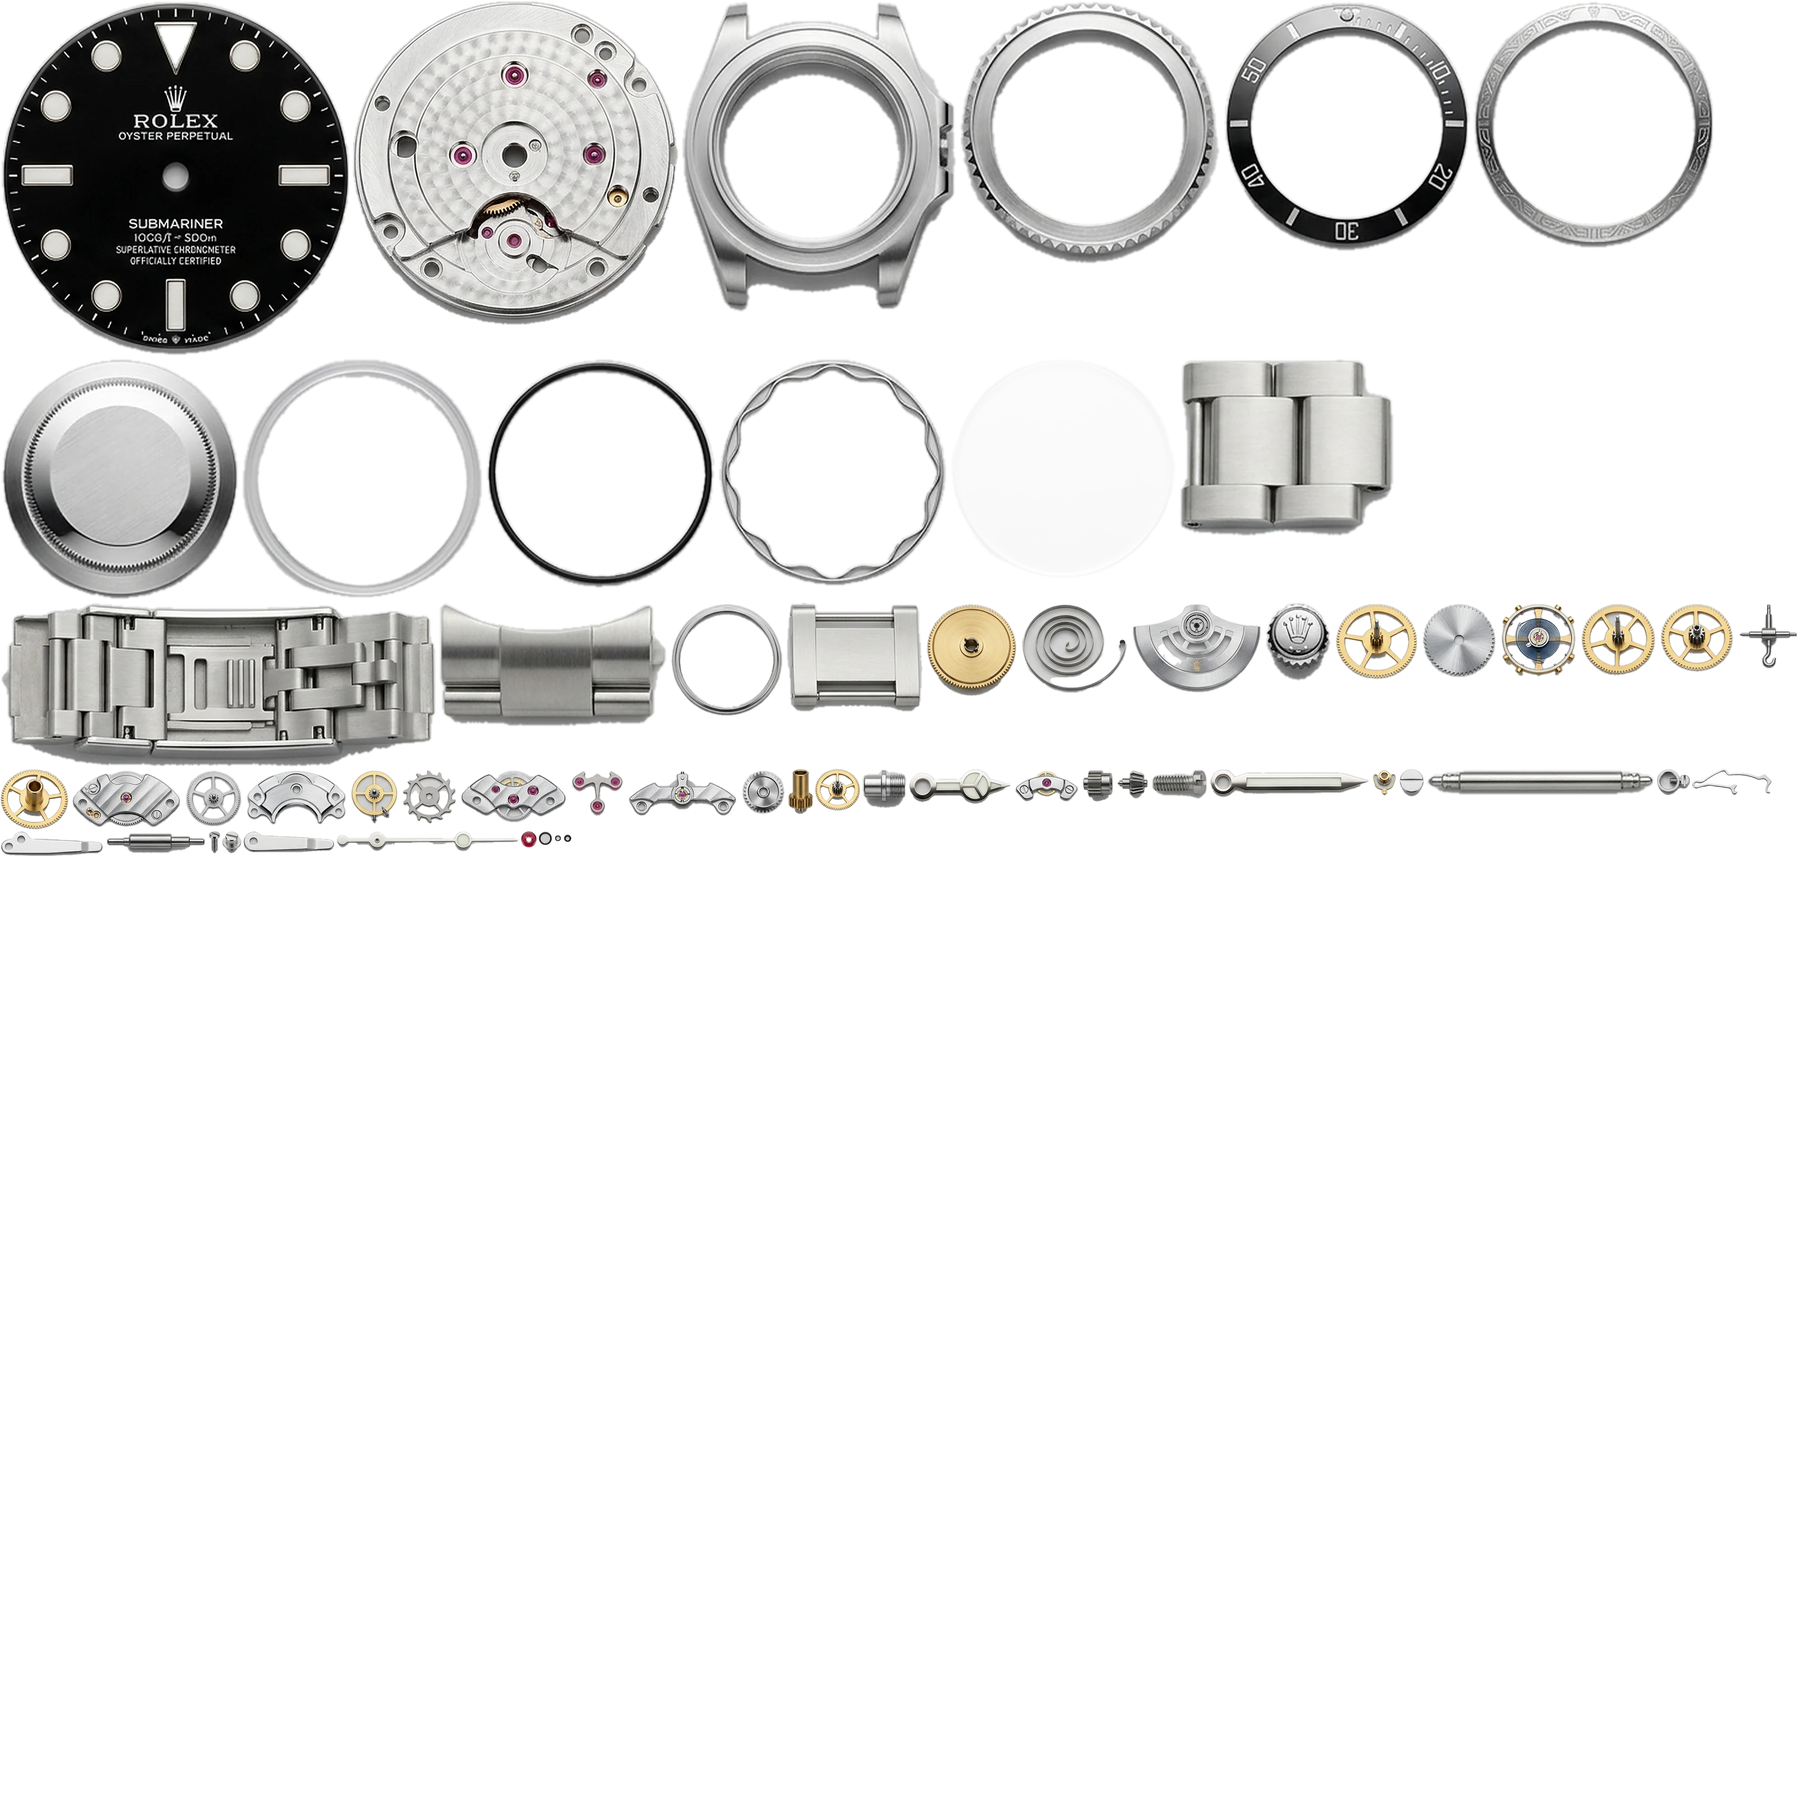
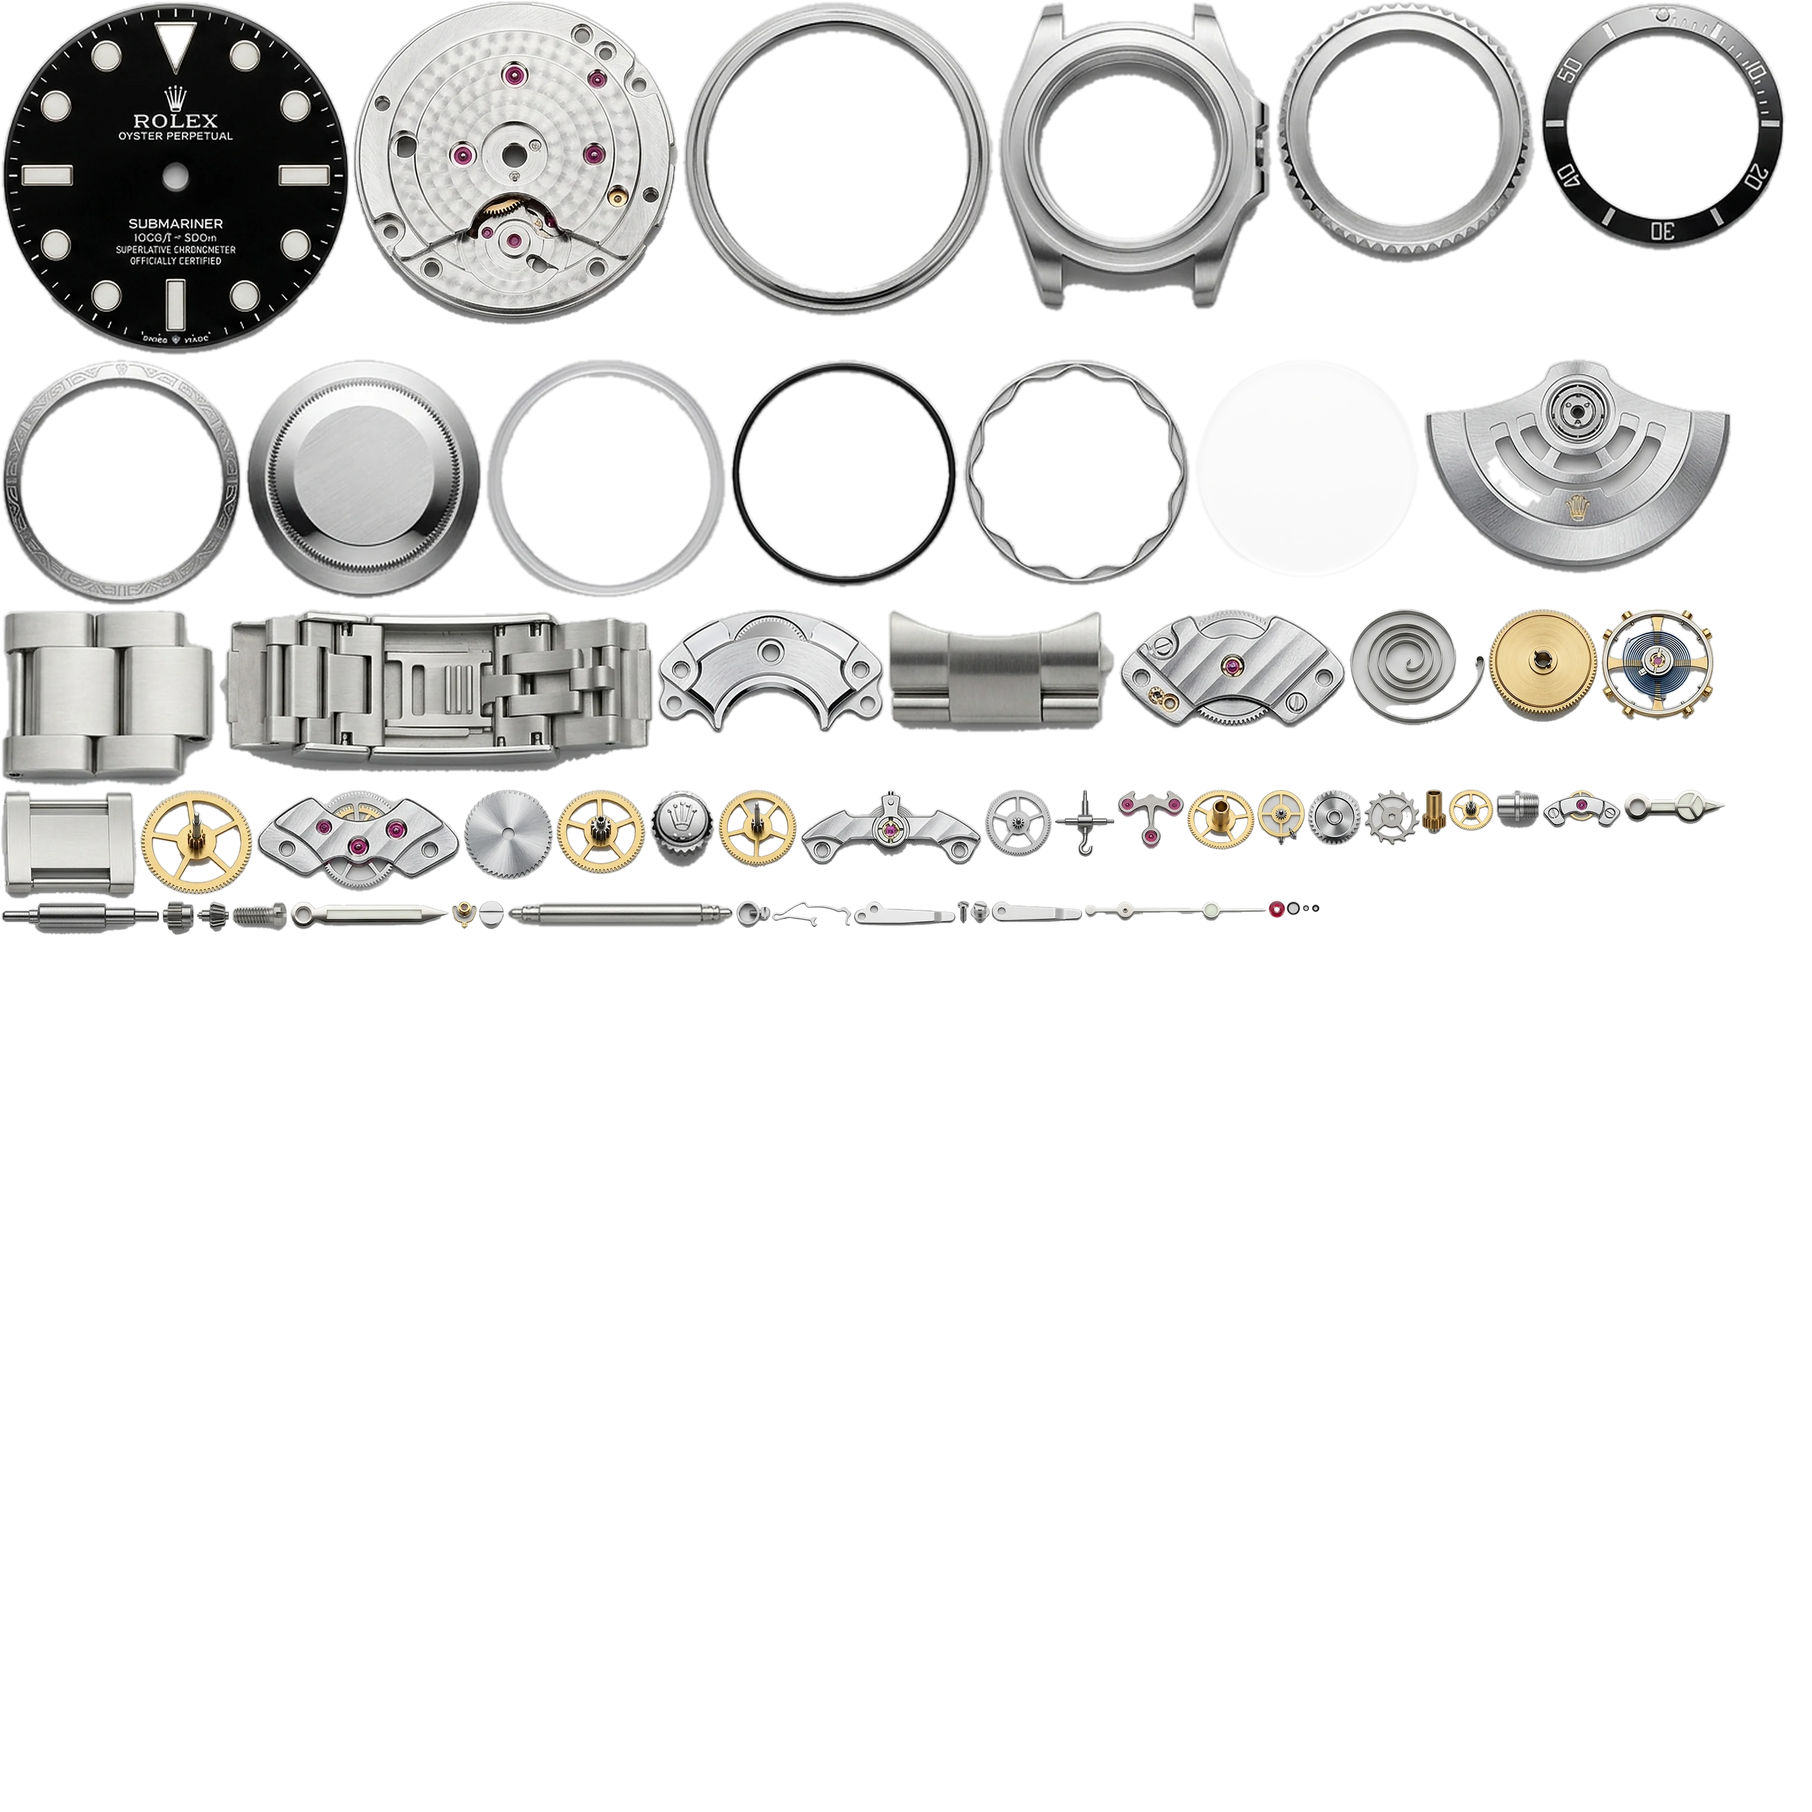
Проверка нарезки при сборке, лист деталей и правила для агентов
- build ищет рассыпавшиеся детали и печатает «НАРЕЗКА ИСПОРЧЕНА»
- teardown.py sheet <slug>: все вырезанные детали модели с подписями
- тест: docs/PROGRESS.md и Progress.md совпадают
- AGENTS.md: обязательный порядок работы с разборкой для любых агентов

Changed region(s): [[0.0, 0.0, 1.0, 0.5312], [0.6562, 0.5, 0.6875, 0.5312]]

diff --git a/scripts/teardown.py b/scripts/teardown.py
@@ -694,6 +694,31 @@ def _layout(cuts: list[Cut], case_mm: float) -> list[dict]:
     return sorted(placed, key=lambda p: p["i"])
 
 
+def _broken(cuts: list[Cut]) -> list[str]:
+    """Детали, рассыпавшиеся на куски: признак сломанной нарезки (фон съел середину стальной детали).
+
+    Считаются заметные куски непрозрачной части спрайта; целая деталь это один крупный кусок
+    (плюс, может быть, пара мелких). Много кусков без явно главного: нарезка испорчена.
+    """
+    import numpy as np
+    from scipy import ndimage as ndi
+
+    out, seen = [], set()
+    for c in cuts:
+        if id(c.sprite) in seen:
+            continue
+        seen.add(id(c.sprite))
+        a = np.asarray(c.sprite)[..., 3] > 128
+        lab, n = ndi.label(a)
+        if n < 2:
+            continue
+        sizes = ndi.sum(a, lab, range(1, n + 1))
+        big = sizes[sizes > a.size * 0.002]
+        if len(big) > 4 and big.max() / big.sum() < 0.8:
+            out.append(f"{c.job.id}: «{c.item.name}» распалась на {len(big)} кусков")
+    return out
+
+
 TRAY_ORDER = ["exterior", "dial", "movement_dial", "movement_calendar", "movement_chrono", "movement_train",
               "movement_top", "movement_screws", "bracelet", "strap"]
 
@@ -848,13 +873,54 @@ def cmd_build(slug: str) -> None:
             pp[name] = [tx, tz]
     manifest = {
         "slug": slug, "case_mm": case_mm, "version": version, "pages": [f"atlas-{n}.webp" for n in range(len(pages))],
-        "assembled": extra, "generated": "Gemini 3 Pro Image по официальным фото модели", "parts": parts,
+        "assembled": extra, "generated": "Gemini (Nano Banana) по официальным фото модели", "parts": parts,
     }
     (out / "manifest.json").write_text(json.dumps(manifest, ensure_ascii=False, separators=(",", ":")), encoding="utf-8")
     size = sum(f.stat().st_size for f in out.glob("*"))
     print(f"{slug}: {len(parts)} деталей, {len(pages)} стр. атласа, {size / 1e6:.1f} МБ")
     for wr in warnings:
         print("  внимание:", wr)
+    broken = _broken(cuts)
+    if broken:
+        print(f"\n!!! НАРЕЗКА ИСПОРЧЕНА у {len(broken)} деталей. Не коммитьте атлас, проверьте `review {slug}` и `sheet {slug}`:")
+        for b in broken:
+            print("   ", b)
+    print(f"Проверьте глазами: uv run python scripts/teardown.py sheet {slug}")
+
+
+def cmd_sheet(slug: str) -> None:
+    """Все вырезанные детали собранной модели с подписями: проверка качества нарезки глазами."""
+    base = OUT / slug
+    m = json.loads((base / "manifest.json").read_text(encoding="utf-8"))
+    pages = [Image.open(base / f).convert("RGBA") for f in m["pages"]]
+    try:
+        font = ImageFont.truetype("/System/Library/Fonts/Supplemental/Arial.ttf", 15)
+    except OSError:
+        font = ImageFont.load_default()
+    tiles, seen = [], set()
+    for p in m["parts"]:
+        key = (p["page"], tuple(p["uv"]))
+        if key in seen:
+            continue
+        seen.add(key)
+        at = pages[p["page"]]
+        W, H = at.size
+        u, v, w, h = p["uv"]
+        sp = at.crop((int(u * W), int(v * H), int((u + w) * W), int((v + h) * H)))
+        sp.thumbnail((230, 230))
+        t = Image.new("RGB", (250, 280), (38, 40, 44))
+        t.paste(sp, ((250 - sp.width) // 2, (240 - sp.height) // 2), sp)
+        ImageDraw.Draw(t).text((8, 252), f"{p['plate']}: {p['name']}"[:36], fill=(235, 235, 235), font=font)
+        tiles.append(t)
+    cols = 8
+    rows = (len(tiles) + cols - 1) // cols
+    sheet = Image.new("RGB", (250 * cols, 280 * rows), (20, 20, 22))
+    for i, t in enumerate(tiles):
+        sheet.paste(t, ((i % cols) * 250, (i // cols) * 280))
+    CACHE.mkdir(parents=True, exist_ok=True)
+    path = CACHE / f"{slug}-sprites.png"
+    sheet.save(path)
+    print(path.relative_to(ROOT), f"({len(tiles)} разных деталей)")
 
 
 def cmd_import(folder: Path) -> None:
@@ -1024,7 +1090,7 @@ def main() -> int:
     im.add_argument("--from", dest="folder", default=str(INBOX))
     pg = sub.add_parser("page", help="страница с промптами для ручной генерации")
     pg.add_argument("slugs", nargs="*")
-    for name in ("plan", "build", "review"):
+    for name in ("plan", "build", "review", "sheet"):
         sp = sub.add_parser(name)
         sp.add_argument("slug")
     g = sub.add_parser("generate")
@@ -1046,6 +1112,8 @@ def main() -> int:
         cmd_generate(args.slug, args.plate, args.dry_run, args.force, args.size)
     elif args.cmd == "build":
         cmd_build(args.slug)
+    elif args.cmd == "sheet":
+        cmd_sheet(args.slug)
     else:
         cmd_review(args.slug)
     return 0

diff --git a/backend/tests/test_docs.py b/backend/tests/test_docs.py
@@ -1,0 +1,11 @@
+"""Журнал ведётся в двух копиях (docs/PROGRESS.md и Progress.md в корне): они должны совпадать."""
+
+from pathlib import Path
+
+ROOT = Path(__file__).resolve().parents[2]
+
+
+def test_progress_copies_in_sync():
+    a = (ROOT / "docs" / "PROGRESS.md").read_text(encoding="utf-8")
+    b = (ROOT / "Progress.md").read_text(encoding="utf-8")
+    assert a == b, "docs/PROGRESS.md и Progress.md разошлись: допишите блок в оба файла"

diff --git a/AGENTS.md b/AGENTS.md
@@ -12,4 +12,13 @@
 - После каждого законченного блока: `uv run pytest`, запись в `docs/PROGRESS.md`, коммит.
 - **Фото моделей** в карточках и шапках: официальные студийные снимки брендов или свободные снимки с автором и лицензией. Сгенерированного 3D в справочных местах нет.
 - **Разборка до детали** (`content/teardown/`, `scripts/teardown.py`, `docs/TEARDOWN_GEMINI_TASK.md`): детали генерирует Gemini 3 Pro Image по официальным фото, на сайте это подписано. Ключ Gemini только в переменной окружения `GEMINI_API_KEY`, в репозиторий не попадает. Исходные 4K-листы лежат в `teardown_src/` (в .gitignore).
+- **Порядок работы с разборкой** (обязателен, в том числе для Antigravity/Gemini):
+  1. Картинки в `~/Desktop/Horologium-детали/` под именами со страницы заданий; оригиналы не перезаписывать
+     (увеличенные копии сохранять рядом или класть в `teardown_src/` через `import`).
+  2. `uv run python scripts/teardown.py import`, затем `review <slug>`: открыть каждый лист и сверить
+     подписи с деталями. Если Gemini сдвинул детали по клеткам, правка в `content/teardown/fixes.yaml`.
+  3. `build <slug>`. Если напечатано «НАРЕЗКА ИСПОРЧЕНА», атлас не коммитить, разобраться.
+  4. `sheet <slug>`: открыть лист всех вырезанных деталей и посмотреть глазами; детали должны быть
+     целыми, без дыр и обрывков. «Проверено» писать только после этого.
+  5. Журнал: блок дописывается и в `docs/PROGRESS.md`, и в `Progress.md` (тест проверяет, что они совпадают).
 - **Коммиты** от `Olzhas Raiganiyev <93197973+BlackJoker00753@users.noreply.github.com>` (настроено локально в репозитории).

diff --git a/Progress.md b/Progress.md
@@ -333,3 +333,8 @@ Studio; после замены файлов в `~/Desktop/Horologium-детал
 - GMT-Master II: 103 детали, атлас 1,1 МБ; Zulu Time: 84 детали, 1,0 МБ. Проверено в браузере.
 - Лист браслета Submariner Date скопирован с Submariner (браслет тот же). На рабочем столе остались
   5 файлов со старыми именами (`rolex-32xx-3285--movement_top.png` и т. п.): это копии общих листов.
+- Защита от повторения: `build` сам ищет детали, рассыпавшиеся на куски, и печатает «НАРЕЗКА
+  ИСПОРЧЕНА» (на атласах из Antigravity нашёл 7–9 таких деталей, на пересобранных ни одной).
+  `teardown.py sheet <slug>` рисует все вырезанные детали модели с подписями для проверки глазами.
+  Тест `test_docs.py` следит, чтобы `docs/PROGRESS.md` и `Progress.md` совпадали. Порядок работы
+  с разборкой для любых агентов записан в `AGENTS.md`.

diff --git a/docs/PROGRESS.md b/docs/PROGRESS.md
@@ -333,3 +333,8 @@ Studio; после замены файлов в `~/Desktop/Horologium-детал
 - GMT-Master II: 103 детали, атлас 1,1 МБ; Zulu Time: 84 детали, 1,0 МБ. Проверено в браузере.
 - Лист браслета Submariner Date скопирован с Submariner (браслет тот же). На рабочем столе остались
   5 файлов со старыми именами (`rolex-32xx-3285--movement_top.png` и т. п.): это копии общих листов.
+- Защита от повторения: `build` сам ищет детали, рассыпавшиеся на куски, и печатает «НАРЕЗКА
+  ИСПОРЧЕНА» (на атласах из Antigravity нашёл 7–9 таких деталей, на пересобранных ни одной).
+  `teardown.py sheet <slug>` рисует все вырезанные детали модели с подписями для проверки глазами.
+  Тест `test_docs.py` следит, чтобы `docs/PROGRESS.md` и `Progress.md` совпадали. Порядок работы
+  с разборкой для любых агентов записан в `AGENTS.md`.
